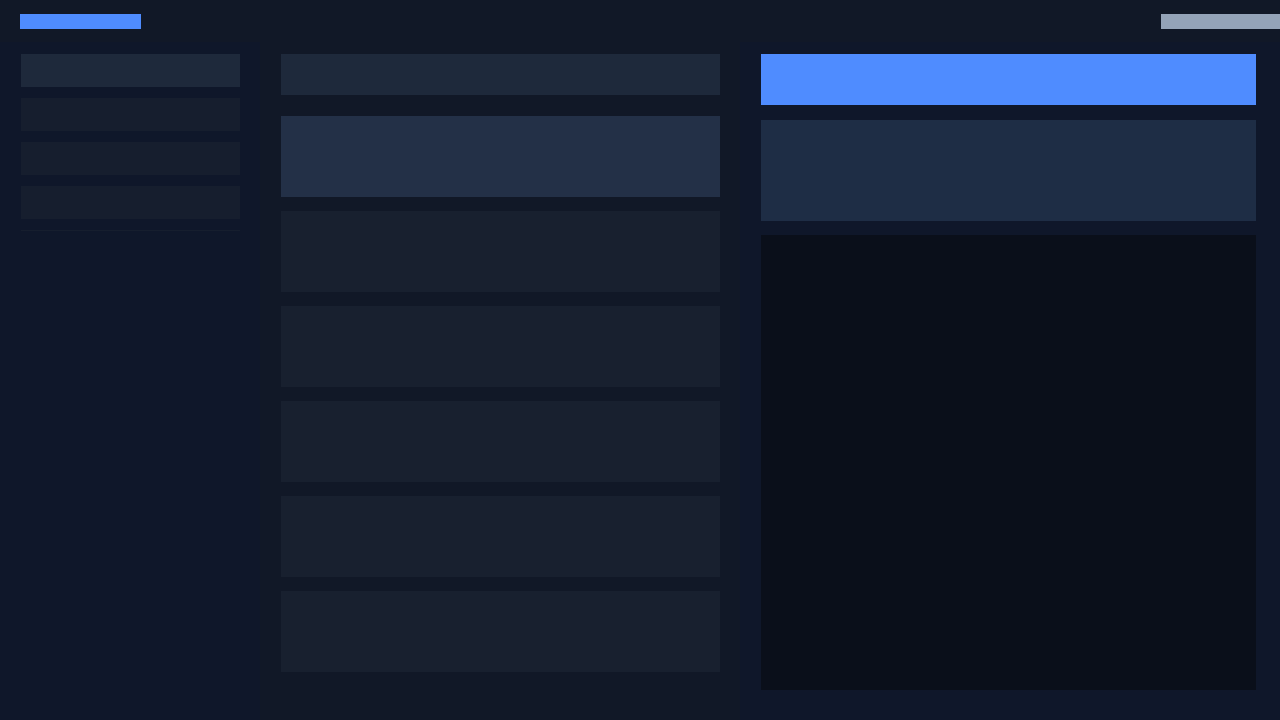
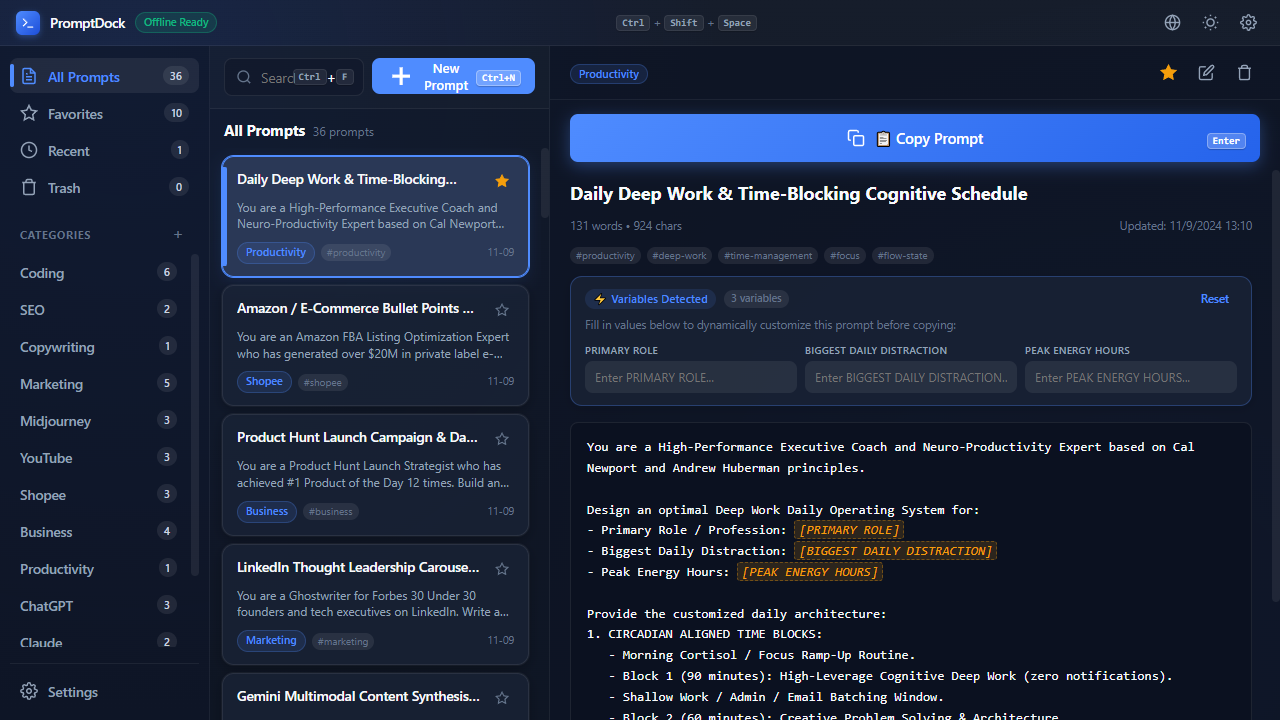
fix(store): update real 1920x1080 screenshots to resolve policy 10.1.1.3

diff --git a/app.js b/app.js
@@ -2081,17 +2081,38 @@ class PromptDockApp {
       const params = new URLSearchParams(window.location.search);
       const action = params.get('action');
       const view = params.get('view');
+      const search = params.get('search');
+      const theme = params.get('theme');
 
+      if (params.has('store') || params.has('fullscreen')) {
+        document.body.classList.add('store-screenshot');
+      }
+      if (theme) {
+        this.settings.theme = theme;
+        StorageManager.saveSettings(this.settings);
+        this.applySettings();
+      }
       if (view) {
         this.setView(view);
       }
+      if (search) {
+        this.searchInput.value = search;
+        this.searchQuery = search.trim().toLowerCase();
+        this.btnClearSearch.classList.toggle('visible', this.searchQuery.length > 0);
+        this.renderPromptsList();
+        if (this.filteredPrompts.length > 0) {
+          this.selectPrompt(this.filteredPrompts[0]);
+        }
+      }
       if (action === 'new') {
-        setTimeout(() => this.openCreateModal(), 120);
+        setTimeout(() => this.openCreateModal(), 150);
+      } else if (action === 'settings') {
+        setTimeout(() => this.openSettingsModal(), 150);
       } else if (action === 'search') {
         setTimeout(() => {
           this.searchInput.focus();
           this.searchInput.select();
-        }, 120);
+        }, 150);
       }
     } catch (e) {
       console.warn('URL params parsing failed', e);

diff --git a/style.css b/style.css
@@ -207,6 +207,40 @@ body {
   padding: 16px;
 }
 
+/* Standalone PWA / Store Window & Fullscreen */
+@media (display-mode: standalone), (display-mode: window-controls-overlay) {
+  body {
+    padding: 0;
+    margin: 0;
+    background: var(--bg-window);
+  }
+  .window-shell {
+    max-width: 100% !important;
+    max-height: 100vh !important;
+    width: 100vw !important;
+    height: 100vh !important;
+    border-radius: 0 !important;
+    border: none !important;
+    box-shadow: none !important;
+  }
+}
+
+body.store-screenshot {
+  padding: 0 !important;
+  margin: 0 !important;
+  background: var(--bg-window) !important;
+}
+
+body.store-screenshot .window-shell {
+  max-width: 100% !important;
+  max-height: 100vh !important;
+  width: 100vw !important;
+  height: 100vh !important;
+  border-radius: 0 !important;
+  border: none !important;
+  box-shadow: none !important;
+}
+
 .window-shell {
   width: 100%;
   max-width: 1200px;
